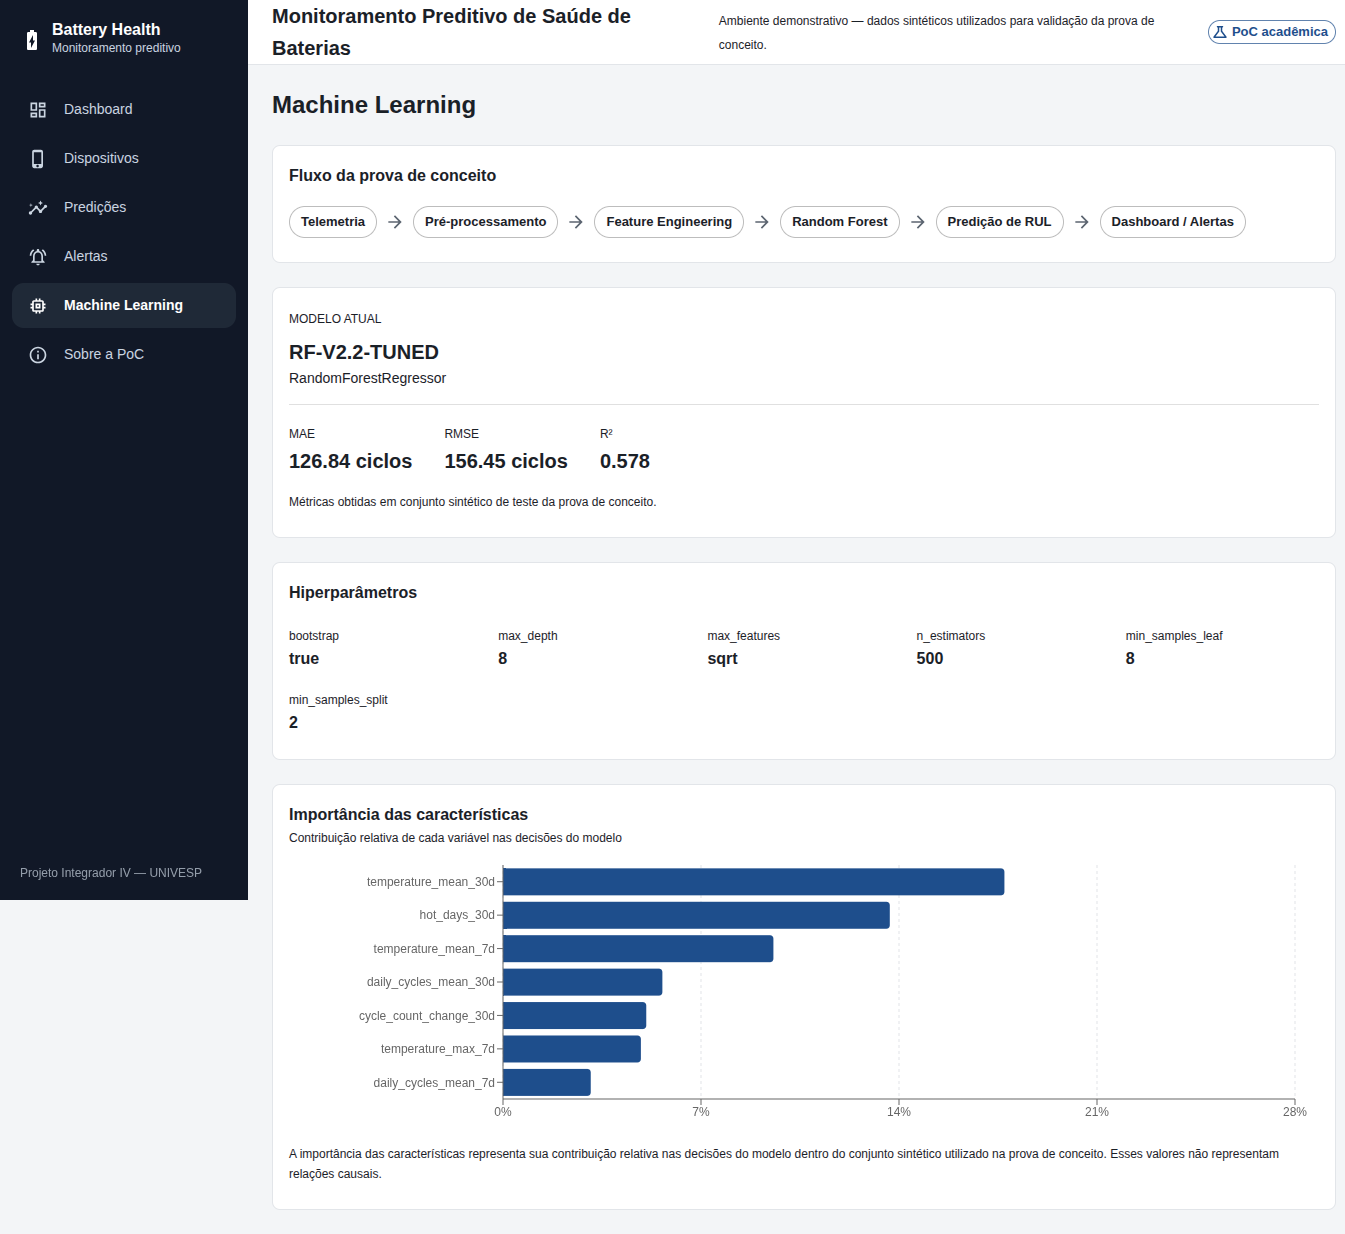
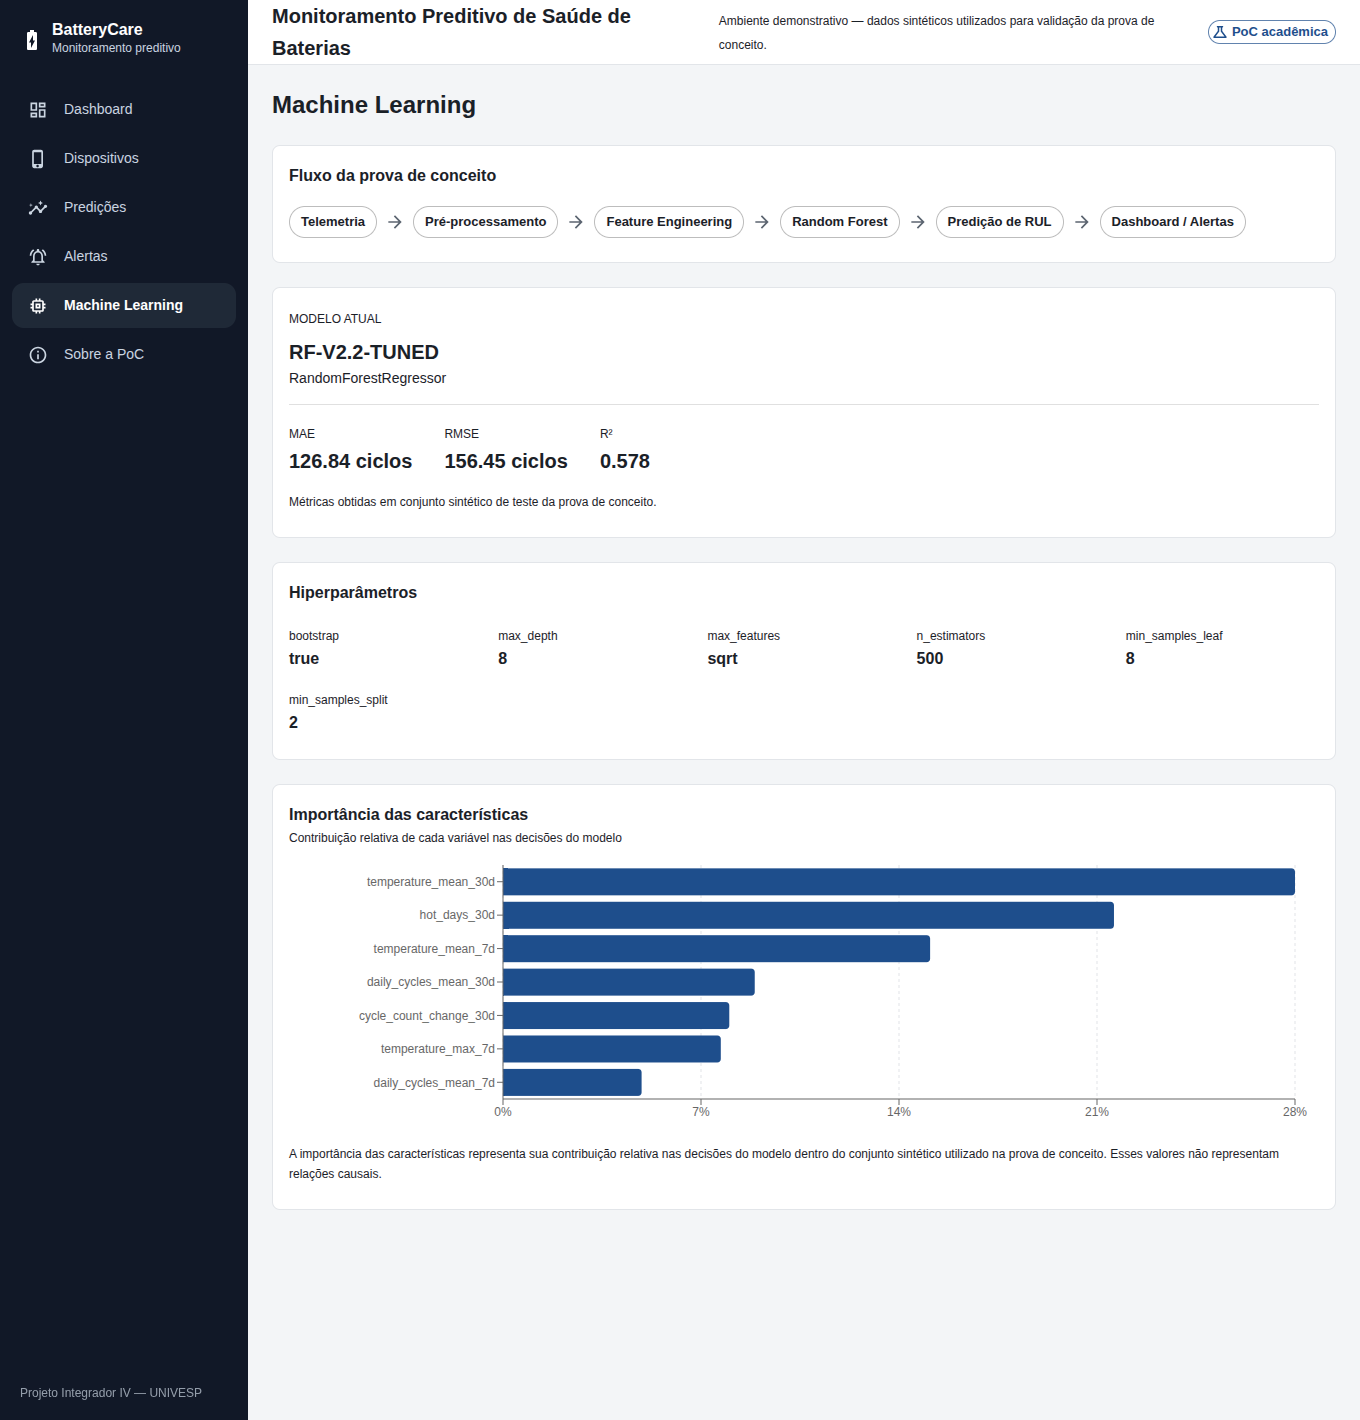
docs: atualiza capturas e contagem de testes com o nome BatteryCare

diff --git a/README.md b/README.md
@@ -4,6 +4,8 @@ Projeto acadêmico desenvolvido para a disciplina **Projeto Integrador em Comput
 
 ## Visão geral
 
+O sistema desenvolvido chama-se **BatteryCare**.
+
 A proposta atual investiga o uso de **telemetria de dispositivos Android**, **processamento de dados em escala**, **aprendizado de máquina** e **visualização web** para apoiar a identificação preventiva de problemas em frotas de smartphones corporativos.
 
 O primeiro caso de uso priorizado é a **saúde da bateria**, com uma prova de conceito voltada à estimativa de degradação e vida útil restante (RUL — Remaining Useful Life).
@@ -116,7 +118,7 @@ O roteiro completo, com o passo a passo do vídeo, está em [demonstração](doc
 | Dados sintéticos | Implementados e validados para a PoC |
 | Engenharia de atributos | Implementada |
 | Modelo de bateria | Random Forest V2.2 ajustado, treinado, avaliado e versionado |
-| Backend | API FastAPI com ingestão, consulta, inferência sob demanda e alertas; 70 testes automatizados |
+| Backend | API FastAPI com ingestão, consulta, inferência sob demanda e alertas; 71 testes automatizados |
 | Banco | PostgreSQL com dispositivos, histórico de telemetria, versões de modelos, políticas de risco e predições, com distinção entre dados sintéticos e reais |
 | Inferência | Sob demanda: `POST /devices/{code}/predictions/run` calcula as 17 features do histórico gravado, executa o modelo e grava a predição. Não é processamento contínuo |
 | Frontend | Telas conectadas à API; modo de demonstração com mocks por `VITE_USE_MOCKS=true` |

diff --git a/docs/relatorios/status-projeto.md b/docs/relatorios/status-projeto.md
@@ -13,7 +13,7 @@ Atualizado em 2026-11-01.
 | Gerador de telemetria sintética | Implementado | `ml/data_generator/generate_battery_data_v2.py` |
 | Engenharia de atributos | Implementada | `ml/feature_engineering/build_battery_features_v2_1.py` |
 | Modelo Random Forest V2.2 ajustado | Treinado, avaliado e versionado | `ml/artifacts/v2_2_tuned/` |
-| API e banco de dados | Implementados | `backend/`, 70 testes automatizados |
+| API e banco de dados | Implementados | `backend/`, 71 testes automatizados |
 | Inferência sob demanda pela API | Implementada | `POST /devices/{code}/predictions/run` |
 | Frontend conectado à API | Implementado | `frontend/`, capturas em `evidencias/integracao/` |
 | Alertas preventivos | Implementados, com limiares experimentais | `GET /alerts` e tela de Alertas |

diff --git a/docs/relatorios/validacao-e-limitacoes.md b/docs/relatorios/validacao-e-limitacoes.md
@@ -12,7 +12,7 @@ Os resultados quantitativos são evidência da viabilidade técnica do pipeline.
 
 | Item | Como foi verificado | Resultado |
 |---|---|---|
-| Backend | `pytest`, `ruff` e `bandit`, Python 3.12 | 70 testes passando, sem achados |
+| Backend | `pytest`, `ruff` e `bandit`, Python 3.12 | 71 testes passando, sem achados |
 | Fluxo completo | `run_demo_pipeline.py` do banco vazio, PostgreSQL 16.15 | 14.400 leituras, predições em 80 aparelhos, 58 s |
 | Paridade das features | Comparação com a saída do pipeline de ML em 400 aparelhos | 13 de 17 idênticas; 4 de ciclos diários com desvio máximo de 0,006 |
 | Reprodutibilidade do modelo | Pipeline executado a partir do código, semente 42 | MAE 126,84, RMSE 156,45 e R² 0,578, iguais aos registrados |

diff --git a/backend/README.md b/backend/README.md
@@ -157,7 +157,7 @@ Nível 3 em 2026-09-27: `pytest` com 35 testes passando e `db/schema.sql` aplica
 container `postgres:16-alpine` (PostgreSQL 16.15), com paridade de colunas entre DDL e ORM e
 constraints de unicidade e CHECK comprovadas por inserções rejeitadas.
 
-Nível 3 em 2026-11-01, Python 3.12: `pytest` com 70 testes passando; `ruff` e `bandit` sem achados;
+Nível 3 em 2026-11-01, Python 3.12: `pytest` com 71 testes passando; `ruff` e `bandit` sem achados;
 `scripts/run_demo_pipeline.py` executado do banco vazio até as predições em `postgres:16-alpine`
 (PostgreSQL 16.15), com a tela da aplicação lendo os dados da API.
 
